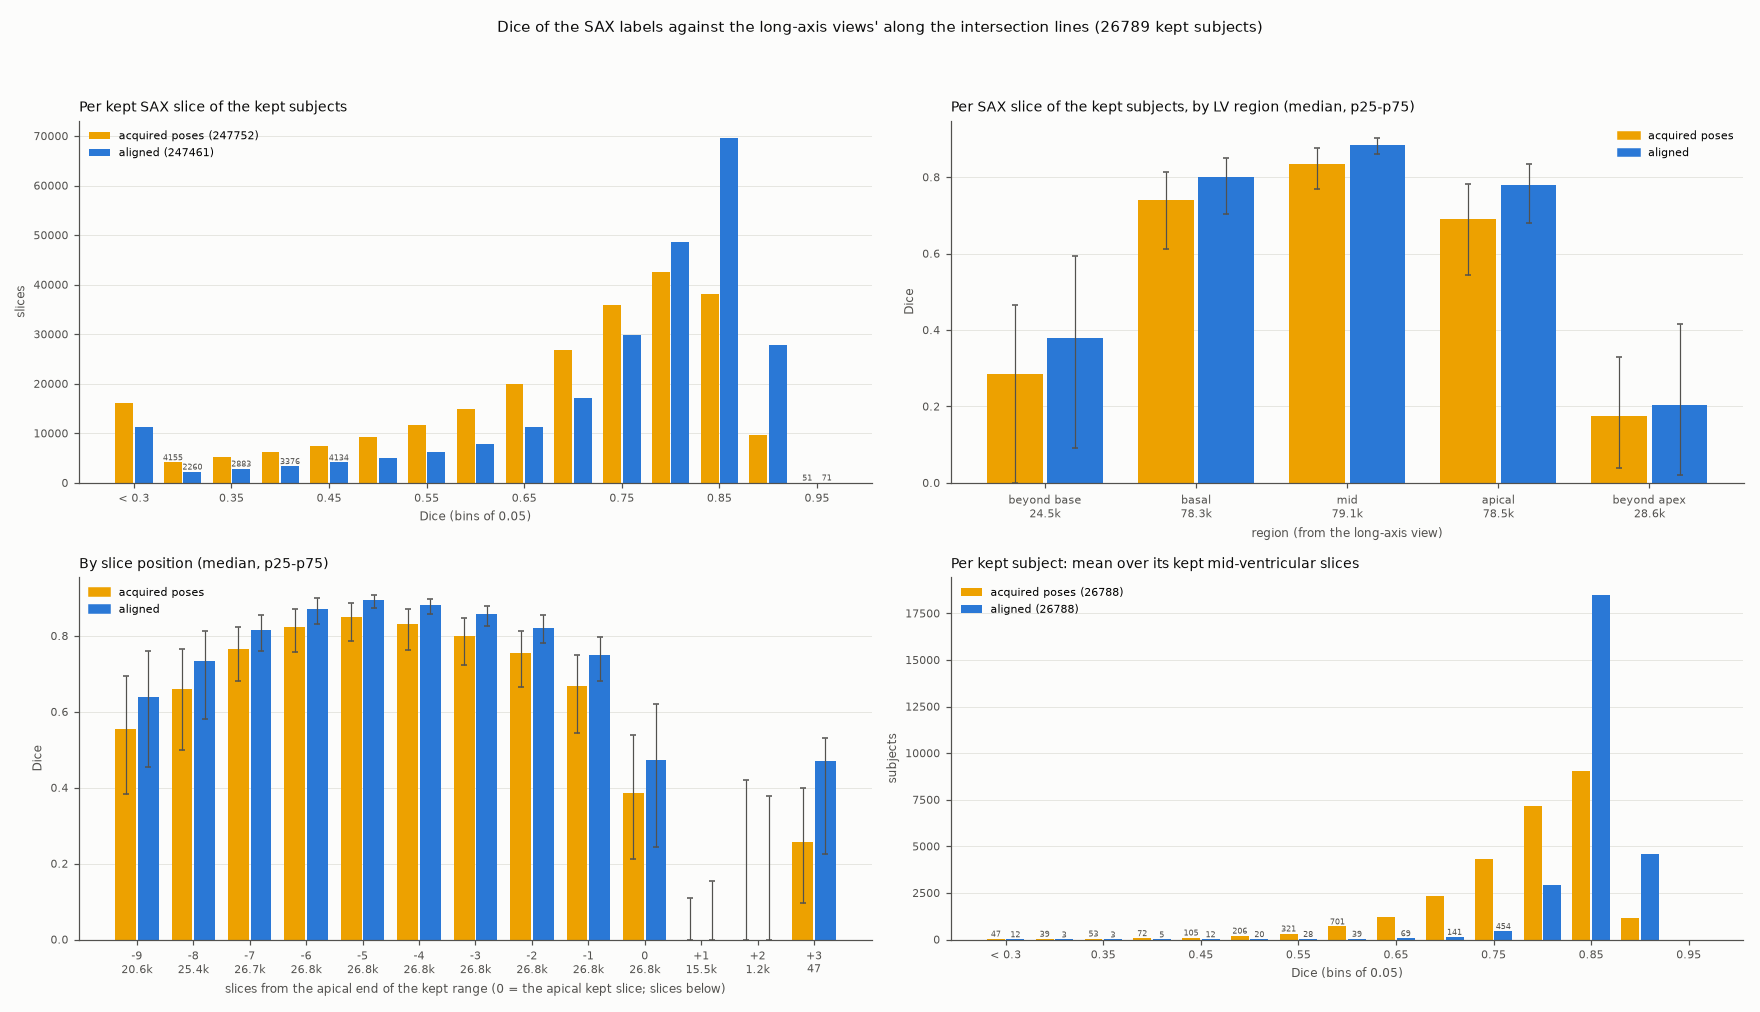
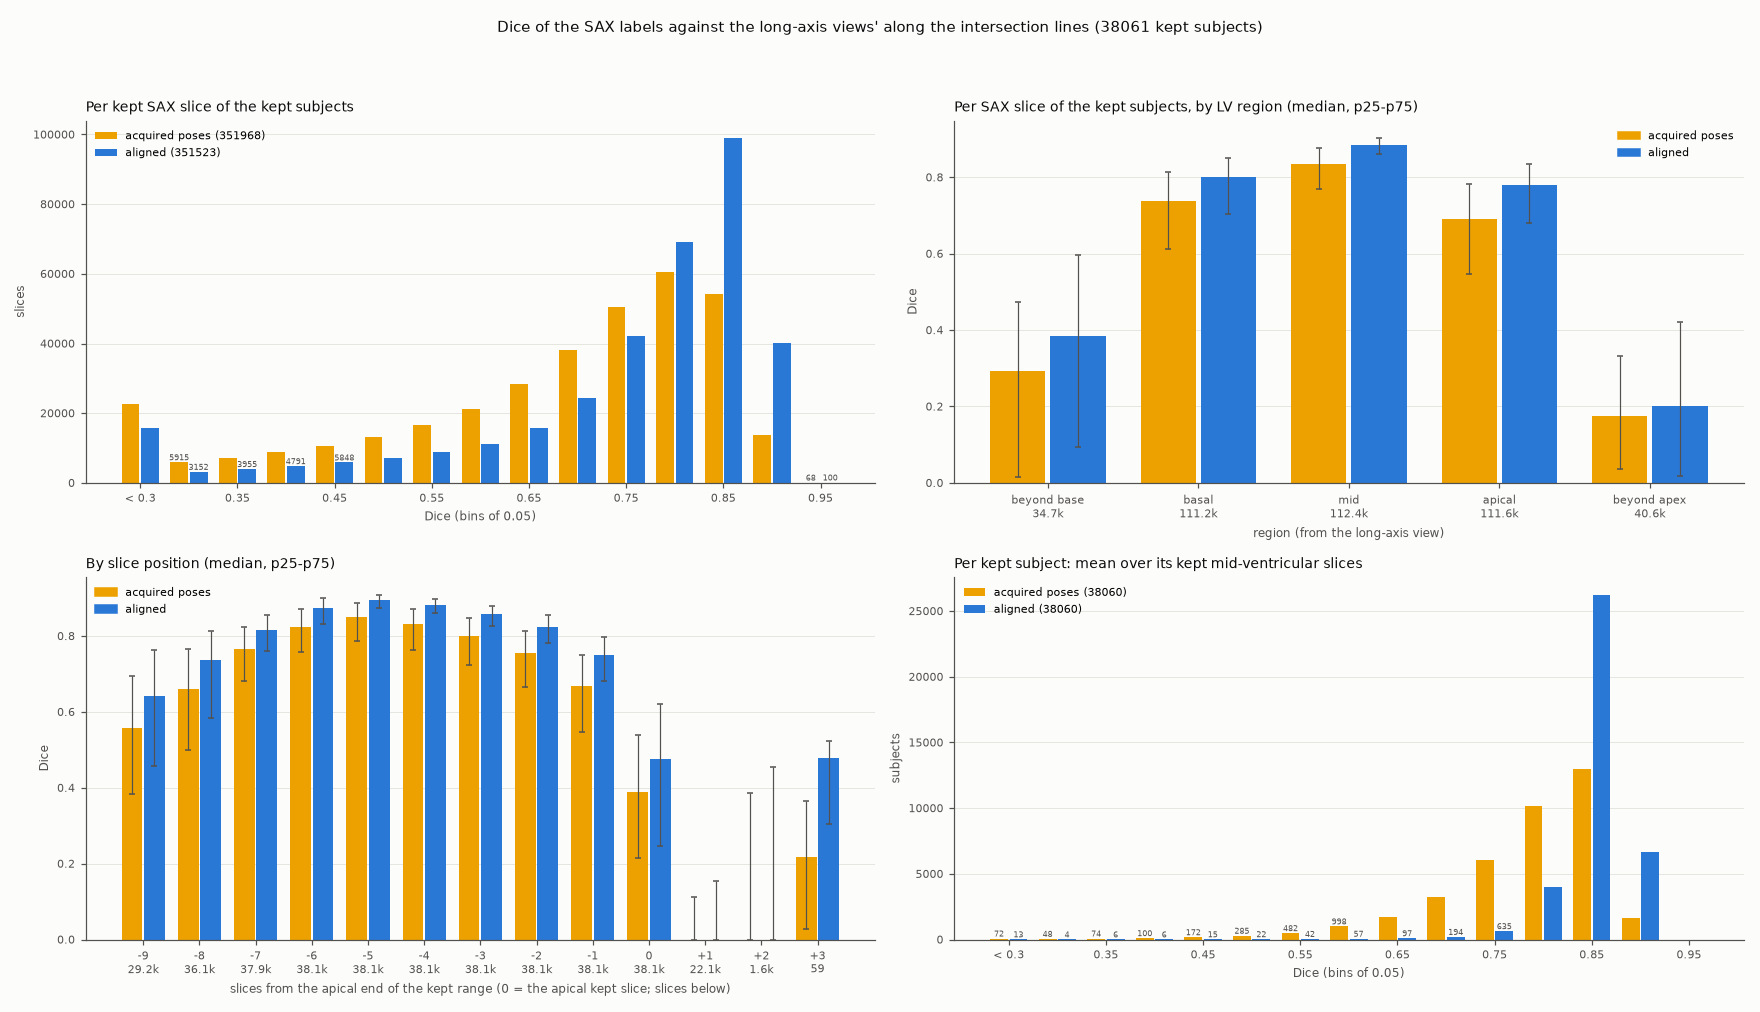
README: UK Biobank statistics from the finished run (57,724 subjects)
Figures regenerated from the complete aligned_subjects_v3 run; the text gets the final
numbers and a breakdown of the subjects by the images they have.

diff --git a/README.md b/README.md
@@ -347,8 +347,20 @@ pip install numpy pandas scipy nibabel pydicom torch pyvista matplotlib
 ## General statistics:
 ###  UK Biobank
 
-The numbers below are from the first 40,484 subjects of the UK Biobank. Segmentations are generated by the trained 
+The numbers below are from all 57,724 subjects of the UK Biobank. Segmentations are generated by the trained 
 nn-Unet models offered by Ugurlu et al.
+
+What the alignment can do for a subject depends on the images it has:
+
+| Images available | Subjects | Alignment |
+|---|---|---|
+| SAX stack and at least two long-axis views | 48,047 | full 6-DOF (29,528 of them with an aortic slice) |
+| long-axis views, no SAX stack | 4,909 | translation + in-plane rotation |
+| no long-axis view | 4,724 | not optimised, written unaligned |
+| no readable images | 43 | none |
+| failed to load (file error) | 1 | none |
+
+The SAX statistics in the figures below come from the 48,047 subjects aligned in 6-DOF.
 
 Finding shows that optimizing over intersection intensity similarity (local NCC) leads to improvement in
 segmentation similarity along the intersection too: 
@@ -385,13 +397,13 @@ An example of no motion being present.
   1.7 mm beyond the base. Their poses rest on short apical profiles with little heart in them, so every judgement uses
   only the kept slices (the coverage test's range).
 - **Motion per subject** (top right): the largest in-plane translation of a kept slice. Leaving out the 5 / 10 / 20 %
-  of the kept subjects that moved most means a limit of 12.5 / 10.0 / 7.6 mm.
+  of the kept subjects that moved most means a limit of 12.6 / 10.1 / 7.6 mm.
 
 **General statistics on computed rotations:**
 
 ![alignment rotation](media/alignment_rotation.png)
 
-- **Rotation**: medians of 1.1° in-plane and 2.7° in total for the kept slices (1.7° and 4.1° beyond the apex);
+- **Rotation**: medians of 1.1° in-plane and 2.7° in total for the kept slices (1.8° and 4.2° beyond the apex);
   reported, not judged (the tilt rests on three crossing lines only).
 
 
